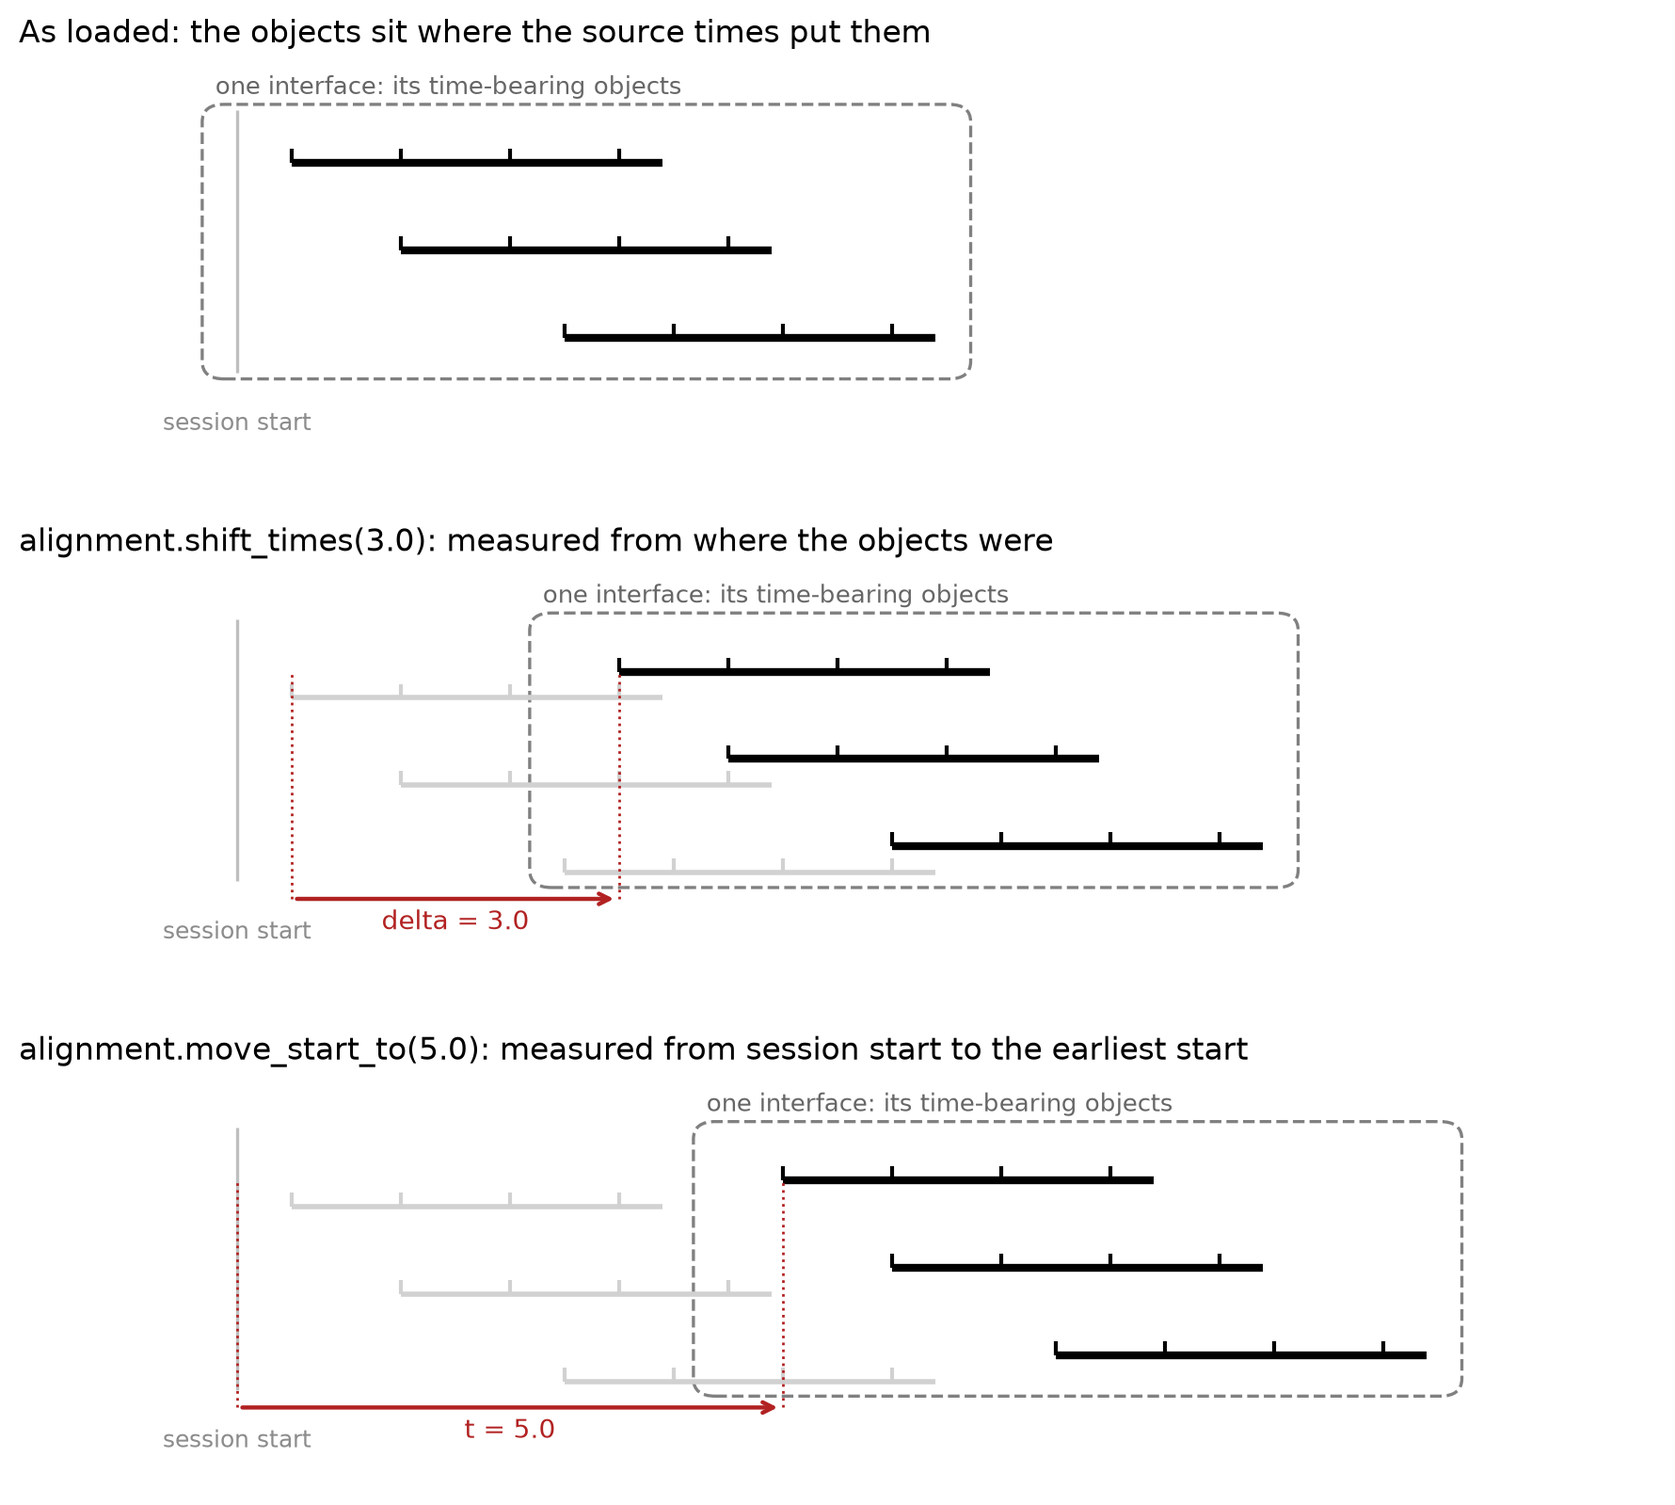
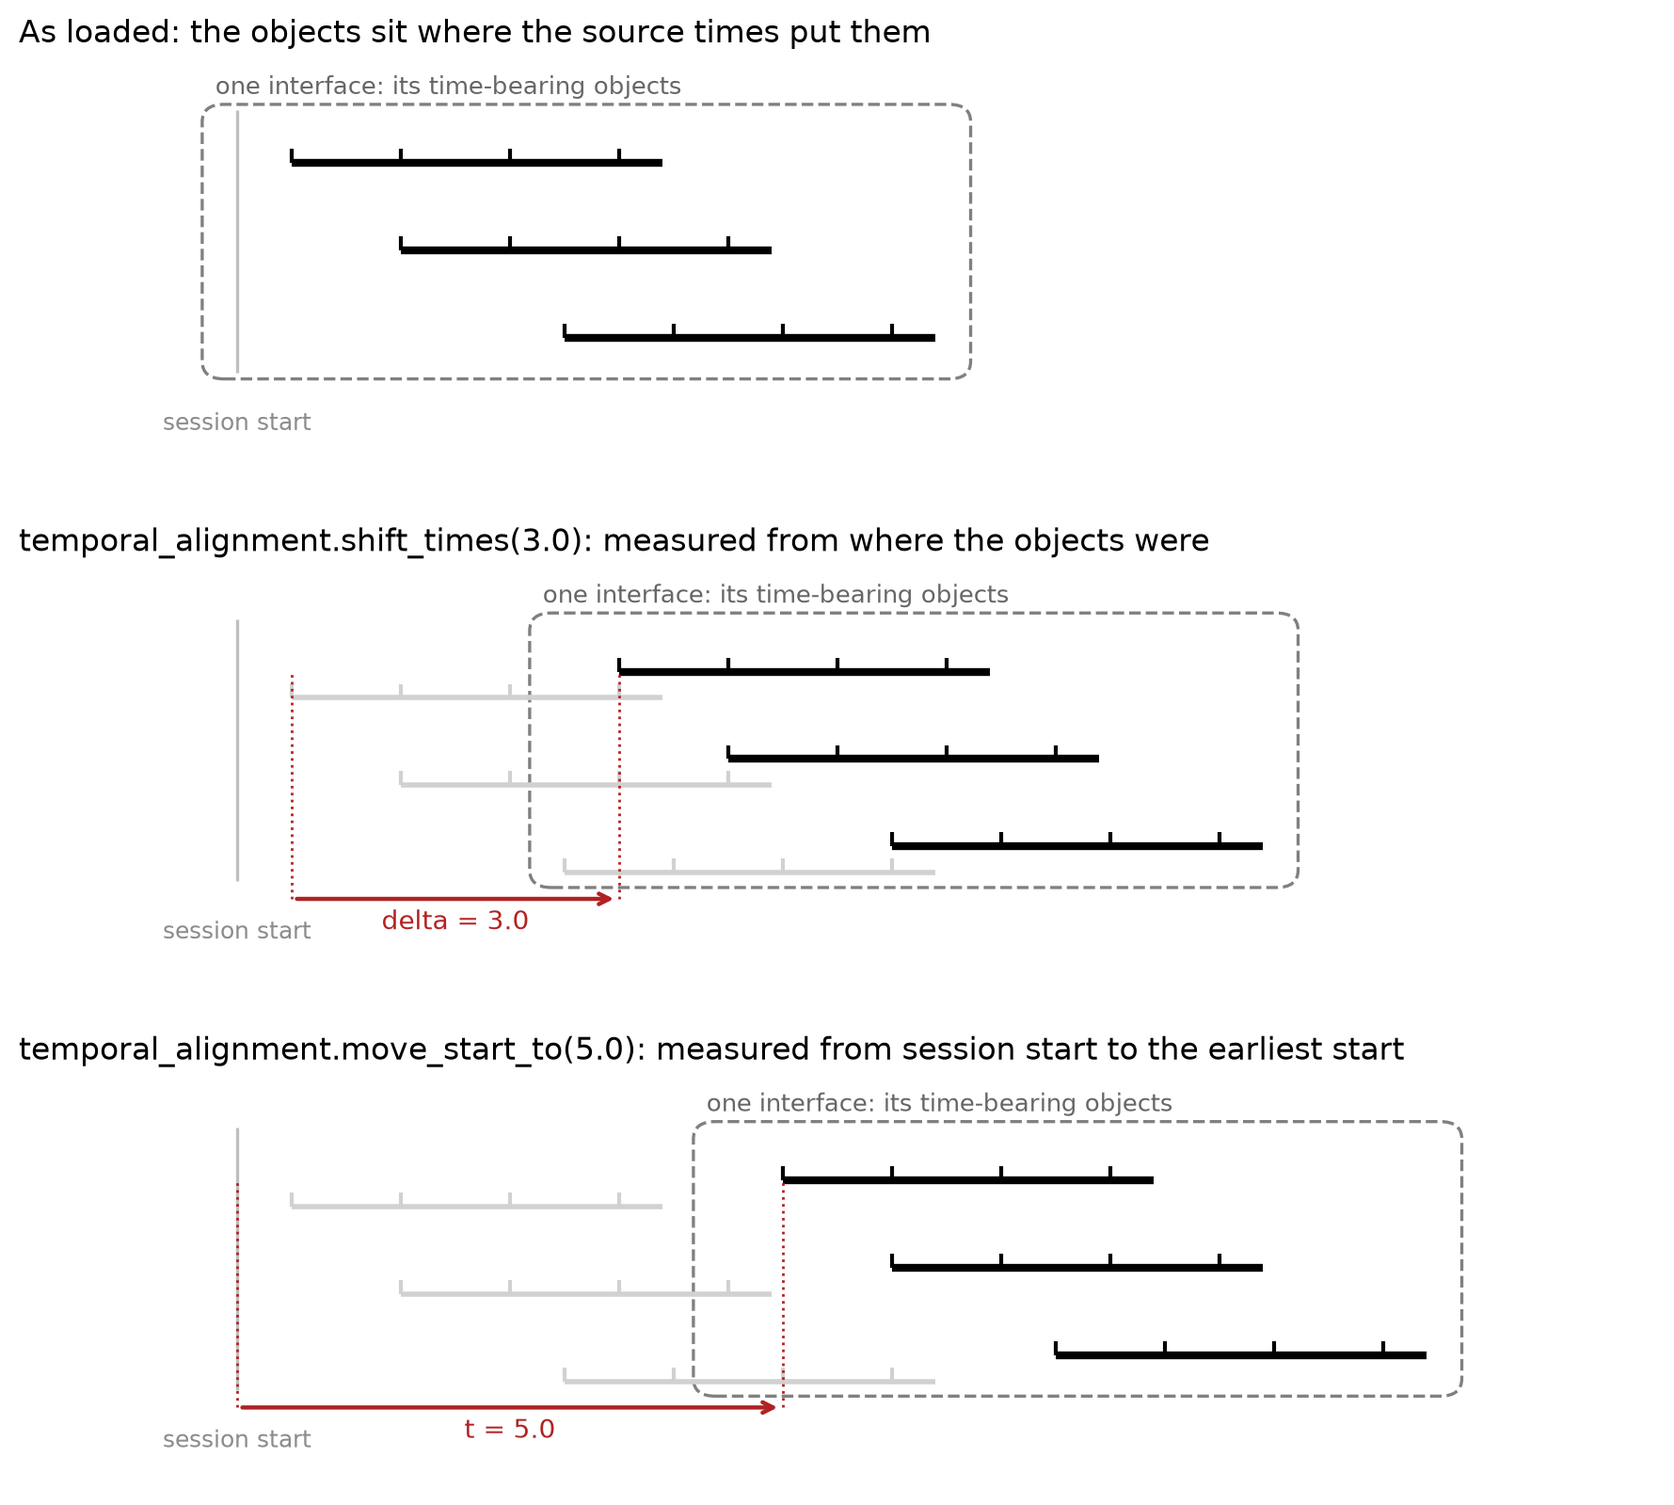
Use temporal_alignment in timing documentation

diff --git a/docs/_static/images/generate_time_alignment_figures.py b/docs/_static/images/generate_time_alignment_figures.py
@@ -313,7 +313,7 @@ def build_coarse():
     panel(
         axes[1],
         shift=3.0,
-        title="alignment[key].shift_times(3.0): measured from where the object was",
+        title="temporal_alignment[key].shift_times(3.0): measured from where the object was",
         arrow_from=loaded_ticks[0],
         arrow_to=loaded_ticks[0] + 3.0,
         arrow_label="delta = 3.0",
@@ -321,7 +321,7 @@ def build_coarse():
     panel(
         axes[2],
         shift=5.0 - loaded_ticks[0],
-        title="alignment[key].move_start_to(5.0): measured from session start",
+        title="temporal_alignment[key].move_start_to(5.0): measured from session start",
         arrow_from=0.0,
         arrow_to=5.0,
         arrow_label="t = 5.0",
@@ -381,7 +381,7 @@ def build_moves_together():
     panel(
         axes[1],
         shift=3.0,
-        title="alignment.shift_times(3.0): measured from where the objects were",
+        title="temporal_alignment.shift_times(3.0): measured from where the objects were",
         arrow_from=loaded_starts[0],
         arrow_to=loaded_starts[0] + 3.0,
         arrow_label="delta = 3.0",
@@ -389,7 +389,7 @@ def build_moves_together():
     panel(
         axes[2],
         shift=5.0 - loaded_starts[0],
-        title="alignment.move_start_to(5.0): measured from session start to the earliest start",
+        title="temporal_alignment.move_start_to(5.0): measured from session start to the earliest start",
         arrow_from=0.0,
         arrow_to=5.0,
         arrow_label="t = 5.0",
@@ -462,7 +462,7 @@ def build_remap_together():
         fig.text(
             0.5,
             0.53,
-            "video_interface.alignment.remap_times(...)",
+            "video_interface.temporal_alignment.remap_times(...)",
             ha="center",
             fontsize=13,
             fontfamily="DejaVu Sans Mono",

diff --git a/docs/user_guide/temporal_alignment.rst b/docs/user_guide/temporal_alignment.rst
@@ -24,14 +24,14 @@ such as a ``Device``, an
 ``ImagingPlane`` or the electrodes table are written by interfaces but carry no times, so they are not time-bearing
 objects.
 
-Every interface exposes its alignment methods under ``interface.alignment``, and each time-bearing object is reached
-there by its name: ``imaging_interface.alignment["two_photon_series"]`` is the ``TwoPhotonSeries`` of an imaging
+Every interface exposes its alignment methods under ``interface.temporal_alignment``, and each time-bearing object is reached
+there by its name: ``imaging_interface.temporal_alignment["two_photon_series"]`` is the ``TwoPhotonSeries`` of an imaging
 interface. ``get_times`` returns the times an object will write. Before you align anything, those are the source's
 native times:
 
 .. code-block:: python
 
-    imaging_interface.alignment["two_photon_series"].get_times()   # one time per sample, in seconds
+    imaging_interface.temporal_alignment["two_photon_series"].get_times()   # one time per sample, in seconds
 
 Gross and fine alignment
 ------------------------
@@ -73,7 +73,7 @@ Aligning one object
 -------------------
 
 The examples in this section align one time-bearing object. We use the ``TwoPhotonSeries`` of an imaging interface
-throughout, reached as ``imaging_interface.alignment["two_photon_series"]``. Interfaces that write several objects are
+throughout, reached as ``imaging_interface.temporal_alignment["two_photon_series"]``. Interfaces that write several objects are
 covered in `Interfaces with several objects`_.
 
 Gross alignment
@@ -103,14 +103,14 @@ starts: that pulse tells you the offset, and one call moves the whole stream ont
 
 .. code-block:: python
 
-    imaging_interface.alignment["two_photon_series"].shift_times(3.0)   # every sample now sits 3.0 seconds later
+    imaging_interface.temporal_alignment["two_photon_series"].shift_times(3.0)   # every sample now sits 3.0 seconds later
 
 When what you know is where the stream began rather than how far it is off, for instance that imaging started 4.2
 seconds into the session, give that position to ``move_start_to``:
 
 .. code-block:: python
 
-    imaging_interface.alignment["two_photon_series"].move_start_to(4.2)   # the first sample now sits at 4.2 seconds
+    imaging_interface.temporal_alignment["two_photon_series"].move_start_to(4.2)   # the first sample now sits at 4.2 seconds
 
 A series starts at its first sample, and an events table starts at its earliest event. A later ``shift_times`` moves
 the object from that position.
@@ -126,7 +126,7 @@ signal or any computation you trust, hand them to ``set_times``:
 
 .. code-block:: python
 
-    imaging_interface.alignment["two_photon_series"].set_times(frame_times)
+    imaging_interface.temporal_alignment["two_photon_series"].set_times(frame_times)
 
 These are the times the file will carry: ``set_times`` writes them exactly as given. Call ``get_times`` afterwards
 and you get back what you just set. The call replaces whatever the object had, including any earlier shift or
@@ -153,7 +153,7 @@ samples that fall between pulses:
     pulses_local = ...       # on the timeline the object currently reports
     pulses_reference = ...   # the same pulses on the reference clock
 
-    imaging_interface.alignment["two_photon_series"].remap_times(
+    imaging_interface.temporal_alignment["two_photon_series"].remap_times(
         local_sync_times=pulses_local,
         reference_sync_times=pulses_reference,
     )
@@ -190,7 +190,7 @@ for instance to mark the samples outside the pulse range instead of clamping the
 
     from functools import partial
 
-    imaging_interface.alignment["two_photon_series"].remap_times(
+    imaging_interface.temporal_alignment["two_photon_series"].remap_times(
         local_sync_times=pulses_local,
         reference_sync_times=pulses_reference,
         interpolation_function=partial(np.interp, left=np.nan, right=np.nan),
@@ -207,7 +207,7 @@ as long as it takes the object's times and the two pulse arrays and returns the 
     def extrapolating(times, local_sync_times, reference_sync_times):
         return interp1d(local_sync_times, reference_sync_times, fill_value="extrapolate")(times)
 
-    imaging_interface.alignment["two_photon_series"].remap_times(
+    imaging_interface.temporal_alignment["two_photon_series"].remap_times(
         local_sync_times=pulses_local,
         reference_sync_times=pulses_reference,
         interpolation_function=extrapolating,
@@ -239,25 +239,25 @@ an audio interface one per file. Which objects an interface writes depends on th
    * - Trials or epochs
      - the ``TimeIntervals`` table
 
-``alignment`` works as a dictionary whose keys (which as a general rule are derived from a ``metadata_key`` plus
+``temporal_alignment`` works as a dictionary whose keys (which as a general rule are derived from a ``metadata_key`` plus
 qualifiers) allow access to the specific time-bearing objects:
 
 .. code-block:: python
 
-    video_interface.alignment.keys()                    # e.g. ("trial_01", "trial_02", "trial_03")
+    video_interface.temporal_alignment.keys()                    # e.g. ("trial_01", "trial_02", "trial_03")
 
-    video_interface.alignment["trial_01"].get_times()
-    video_interface.alignment["trial_01"].set_times(times)
-    video_interface.alignment["trial_01"].remap_times(local_sync_times=pulses_local, reference_sync_times=pulses_reference)
+    video_interface.temporal_alignment["trial_01"].get_times()
+    video_interface.temporal_alignment["trial_01"].set_times(times)
+    video_interface.temporal_alignment["trial_01"].remap_times(local_sync_times=pulses_local, reference_sync_times=pulses_reference)
 
 A session recorded as separate trial files may have each file's clock starting near zero. When you know the time each
 file began on the session clock, place each object with ``move_start_to``:
 
 .. code-block:: python
 
-    video_interface.alignment["trial_01"].move_start_to(0.0)
-    video_interface.alignment["trial_02"].move_start_to(65.0)
-    video_interface.alignment["trial_03"].move_start_to(130.0)
+    video_interface.temporal_alignment["trial_01"].move_start_to(0.0)
+    video_interface.temporal_alignment["trial_02"].move_start_to(65.0)
+    video_interface.temporal_alignment["trial_03"].move_start_to(130.0)
 
 Each call places one file and leaves its siblings where they are.
 
@@ -266,24 +266,24 @@ A correction can also belong to one object. If a synchronization check finds one
 
 .. code-block:: python
 
-    video_interface.alignment["trial_02"].shift_times(-0.040)
+    video_interface.temporal_alignment["trial_02"].shift_times(-0.040)
 
-As a convenience, we allow some of the methods to work on all the items of the ``alignment``. Calling
+As a convenience, we allow some of the methods to work on all the items of the ``temporal_alignment``. Calling
 ``shift_times``, ``move_start_to`` and ``remap_times`` without a key will operate on all the time-bearing objects.
 
-``alignment.shift_times(delta)`` moves every object of the interface by ``delta``, so their relationships stay intact:
+``temporal_alignment.shift_times(delta)`` moves every object of the interface by ``delta``, so their relationships stay intact:
 they slide together by the same amount. Use it when their relative timing is already correct and the whole group needs
 the same correction:
 
 .. code-block:: python
 
-    video_interface.alignment.shift_times(3.0)   # every video now sits 3.0 seconds later on the session clock
+    video_interface.temporal_alignment.shift_times(3.0)   # every video now sits 3.0 seconds later on the session clock
 
 You can also move an entire interface to a known position:
 
 .. code-block:: python
 
-    video_interface.alignment.move_start_to(100.0)
+    video_interface.temporal_alignment.move_start_to(100.0)
 
 The interface uses the earliest start among its objects and moves every object by the same amount. The three trials
 above now start at 100, 164.96 and 230 seconds, preserving the correction to the second trial. Their relative timing
@@ -293,22 +293,22 @@ Calling ``move_start_to(100.0)`` separately on each trial would instead put all 
 .. image:: ../_static/images/time_alignment_moves_together.png
    :width: 600px
    :align: center
-   :alt: Three panels of one interface's three time-bearing objects. As loaded; after alignment.shift_times(3.0),
-         every object 3.0 seconds from where it was; after alignment.move_start_to(5.0), the earliest start at
+   :alt: Three panels of one interface's three time-bearing objects. As loaded; after temporal_alignment.shift_times(3.0),
+         every object 3.0 seconds from where it was; after temporal_alignment.move_start_to(5.0), the earliest start at
          5.0 seconds from session start. In both moved panels the gaps between the objects are unchanged.
 
-Calling ``alignment.remap_times`` uses one set of synchronization-pulse pairs to transform every object's
+Calling ``temporal_alignment.remap_times`` uses one set of synchronization-pulse pairs to transform every object's
 timestamps. As an example, consider a recording setup with a camera and an electrophysiology system that both
 timestamp the same synchronization pulses. The camera saves several video files while keeping its clock running
 between files. Use the camera's pulse times as ``local_sync_times`` and the electrophysiology system's pulse times
-as ``reference_sync_times``. Calling ``video_interface.alignment.remap_times`` then maps every file's frame times
+as ``reference_sync_times``. Calling ``video_interface.temporal_alignment.remap_times`` then maps every file's frame times
 onto the electrophysiology clock.
 
 .. figure:: ../_static/images/time_alignment_remap_together.png
    :width: 600px
    :align: center
    :alt: One set of local_sync_times and reference_sync_times defines a mapping from the continuous camera clock
-         to the electrophysiology clock. A single video_interface.alignment.remap_times call applies this mapping
+         to the electrophysiology clock. A single video_interface.temporal_alignment.remap_times call applies this mapping
          to sample timestamps in trial_01, trial_02 and trial_03. Each file remains a separate object.
 
    Each video file is a separate time-bearing object. Because their timestamps share one continuous camera clock,
@@ -321,18 +321,18 @@ Alignment in a converter
 ------------------------
 
 A converter is where alignment usually happens, since that is where several interfaces meet. A converter has an
-``alignment`` of its own, and its keys nest: the first key is the name of an interface the converter holds, and
-``converter.alignment[name]`` is that interface's ``alignment``. From there, indexing continues into the interface's
+``temporal_alignment`` of its own, and its keys nest: the first key is the name of an interface the converter holds, and
+``converter.temporal_alignment[name]`` is that interface's ``temporal_alignment``. From there, indexing continues into the interface's
 own objects as before:
 
 .. code-block:: python
 
-    converter.alignment.keys()               # e.g. ("Recording", "Behavior", "Video")
-    converter.alignment["Video"].keys()      # e.g. ("trial_01", "trial_02", "trial_03")
-    converter.alignment["Video"]["trial_02"].shift_times(-0.040)   # one file of the video interface
+    converter.temporal_alignment.keys()               # e.g. ("Recording", "Behavior", "Video")
+    converter.temporal_alignment["Video"].keys()      # e.g. ("trial_01", "trial_02", "trial_03")
+    converter.temporal_alignment["Video"]["trial_02"].shift_times(-0.040)   # one file of the video interface
 
-Called on the converter's ``alignment`` itself, ``shift_times`` and ``move_start_to`` move every interface it holds by
-one common amount, just as an interface moves its objects, as long as each of them exposes an ``alignment``. Calling
+Called on the converter's ``temporal_alignment`` itself, ``shift_times`` and ``move_start_to`` move every interface it holds by
+one common amount, just as an interface moves its objects, as long as each of them exposes a ``temporal_alignment``. Calling
 ``remap_times`` there applies one map to every interface, which is right only when all of them run on one clock. Each
 interface usually has its own clock and its own correction, so most alignment is one call per interface.
 
@@ -350,7 +350,7 @@ and before running the conversion:
     converter = ConverterPipe(data_interfaces=dict(Recording=recording_interface, Behavior=behavior_interface))
 
     behavior_delay = ...  # how far the behavior box starts after the recording, however you obtain it
-    converter.alignment["Behavior"].shift_times(behavior_delay)
+    converter.temporal_alignment["Behavior"].shift_times(behavior_delay)
 
     converter.run_conversion(nwbfile_path="session.nwb")
 
@@ -373,11 +373,11 @@ A subclass of :py:class:`.NWBConverter` packages a conversion you run repeatedly
 
         def temporally_align_data_interfaces(self, metadata=None, conversion_options=None):
             behavior_delay = ...  # how far the behavior box starts after the recording, however you obtain it
-            self.alignment["Behavior"].shift_times(behavior_delay)
+            self.temporal_alignment["Behavior"].shift_times(behavior_delay)
 
 Inside this method you apply whatever each stream needs: ``shift_times`` for a correction, ``move_start_to`` for a
-destination, or ``remap_times`` to re-time a drifting stream against the reference, on ``self.alignment[name]`` for a
-whole interface or on ``self.alignment[name][key]`` for one of its objects.
+destination, or ``remap_times`` to re-time a drifting stream against the reference, on ``self.temporal_alignment[name]`` for a
+whole interface or on ``self.temporal_alignment[name][key]`` for one of its objects.
 
 One caveat applies to both: the calls mutate the live interfaces, so a step that runs twice compounds unless it states
 a result. A ``shift_times`` shifts twice and a ``remap_times`` remaps times that were already remapped, while

diff --git a/docs/developer_guide/timing_model.rst b/docs/developer_guide/timing_model.rst
@@ -33,7 +33,7 @@ Composition
 -----------
 
 To make this object-level model available across modalities, interfaces expose timing operations through
-``interface.alignment``. The component manages alignment state and operations, while each interface identifies its
+``interface.temporal_alignment``. The component manages alignment state and operations, while each interface identifies its
 objects and supplies access to their native times. This division lets the same implementation handle an interface
 with one series or several independent sets of times, without knowing how either source format stores them.
 Modality-specific code defines what can be aligned, and the shared component defines how alignment behaves.
@@ -43,7 +43,7 @@ such as ``get_timestamps() -> np.ndarray`` and ``set_aligned_timestamps(np.ndarr
 An events interface has separate times for each event type, so returning a dictionary violates that contract and
 combining the arrays loses their separate identities. Inheritance could support object registration too, but it would
 still tie alignment to the interface hierarchy and place timing methods beside ``get_metadata`` and
-``add_to_nwbfile``. A held component keeps those methods together under ``alignment`` without requiring a particular
+``add_to_nwbfile``. A held component keeps those methods together under ``temporal_alignment`` without requiring a particular
 interface base class. That same attribute gives converters a common surface through which to check alignment support
 and apply collection operations.
 
@@ -142,7 +142,7 @@ Collection operations
 
 Converters let users align their component interfaces individually through nested addressing or together through
 collection operations. For example, if a session converter contains a SpikeGLX converter under ``"SpikeGLX"``,
-calling ``converter.alignment["SpikeGLX"].shift_times(delta)`` shifts its streams together, including both the
+calling ``converter.temporal_alignment["SpikeGLX"].shift_times(delta)`` shifts its streams together, including both the
 action-potential and low-frequency bands of a Neuropixels 1.0 recording. This lets users correct the acquisition's
 timing without separately adjusting each stream.
 
@@ -161,7 +161,7 @@ Nested addressing
 -----------------
 
 Because intermediate collections are useful operation targets, alignment addressing follows the converter's
-structure. ``converter.alignment[name]`` exposes ``converter.data_interface_objects[name].alignment``, and indexing
+structure. ``converter.temporal_alignment[name]`` exposes ``converter.data_interface_objects[name].temporal_alignment``, and indexing
 continues through nested converters until an interface's keys select its time-bearing objects. ``keys()`` lists the
 immediate members of the selected collection. This reuses child names from converter configuration and gives each
 intermediate collection a handle.
